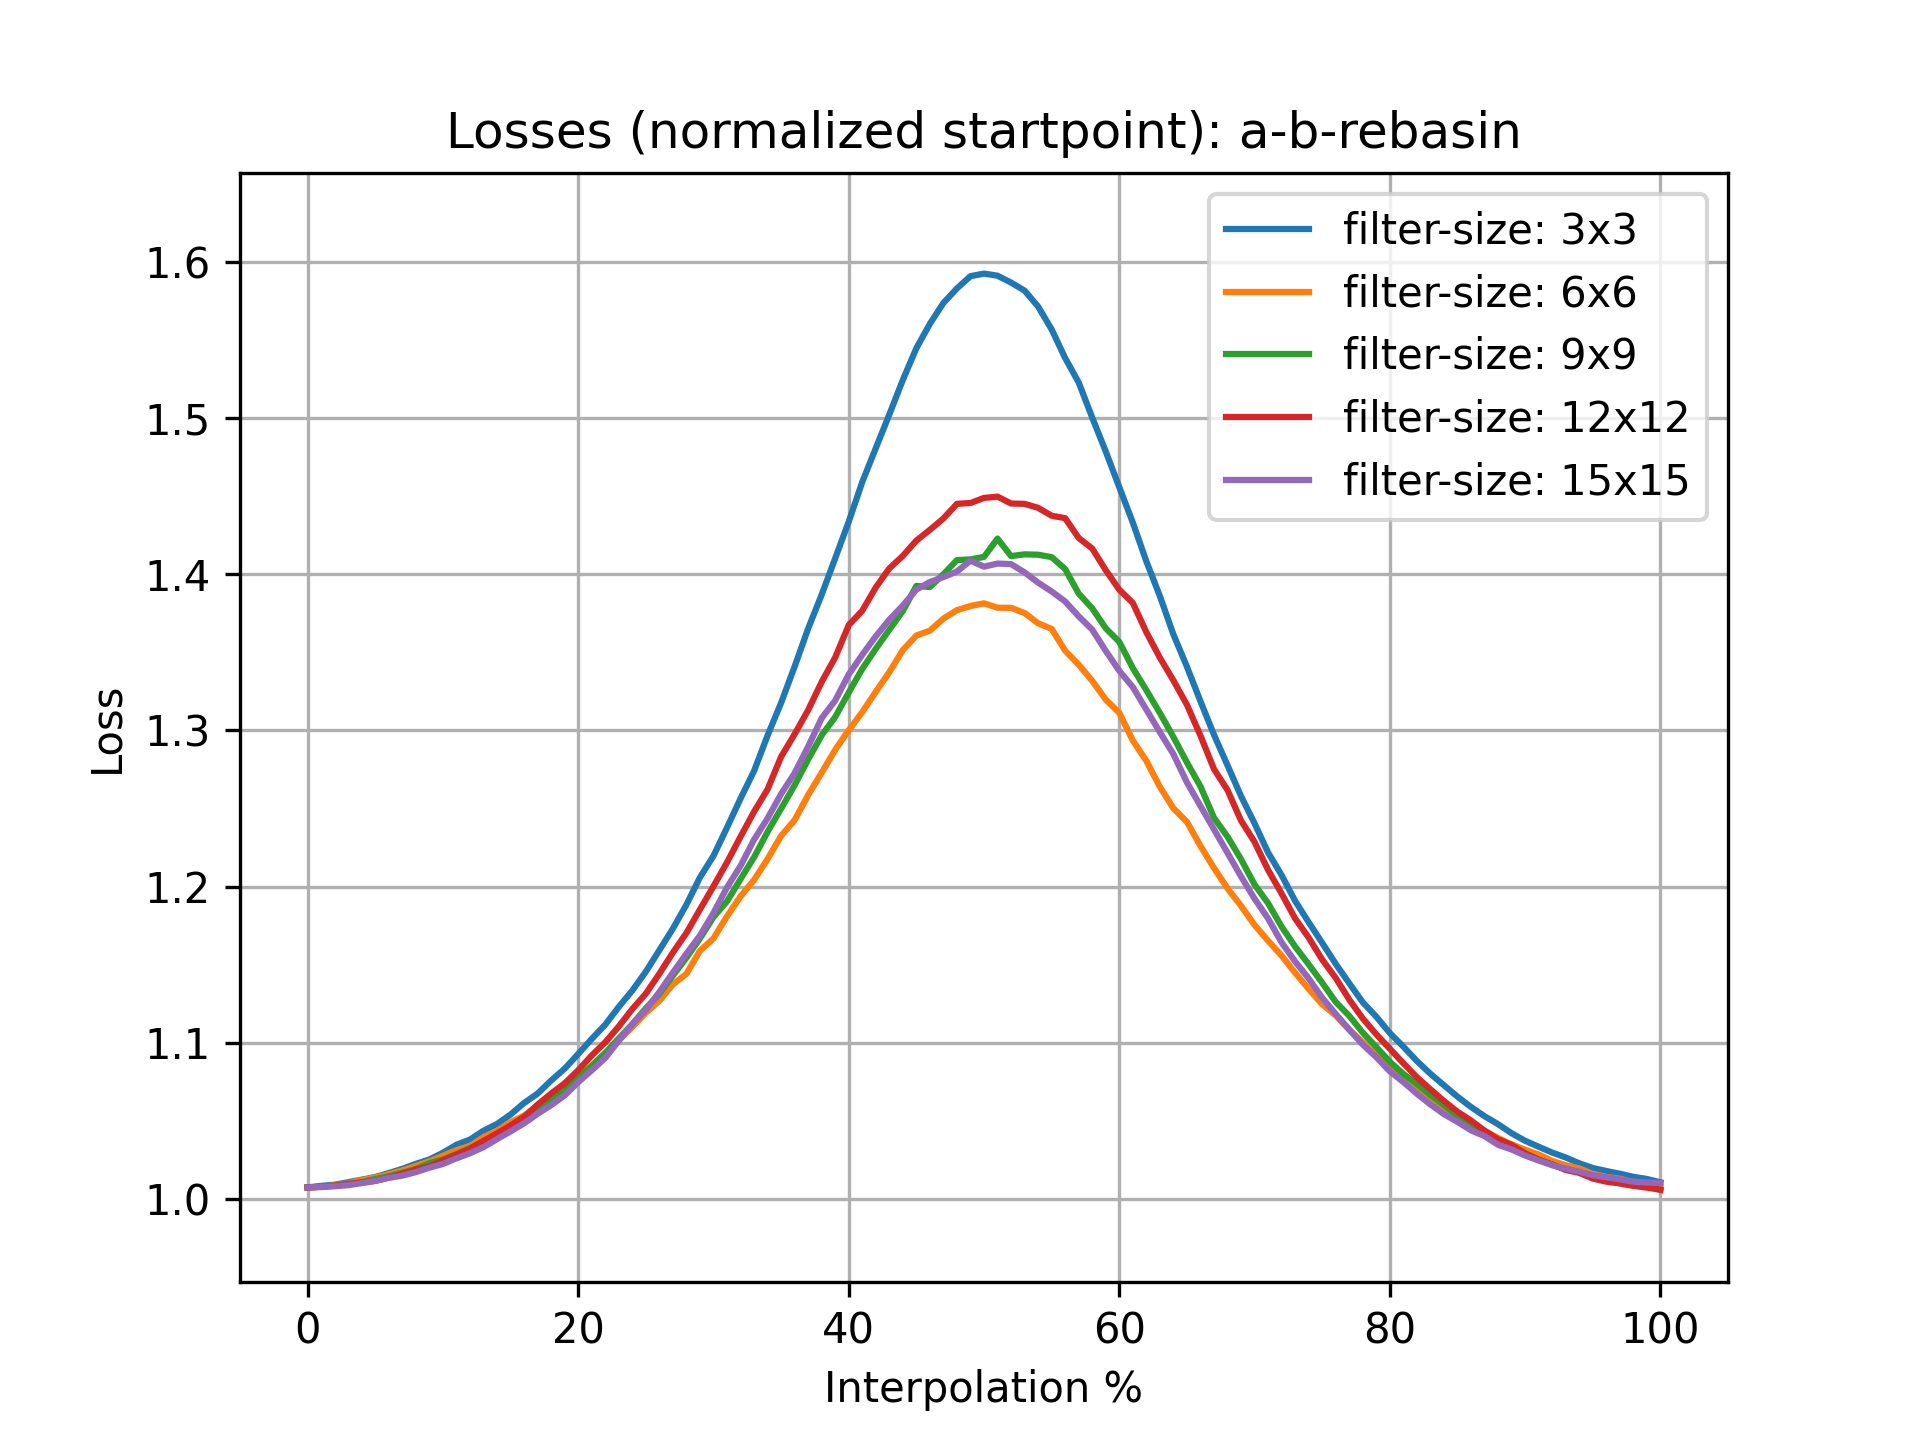
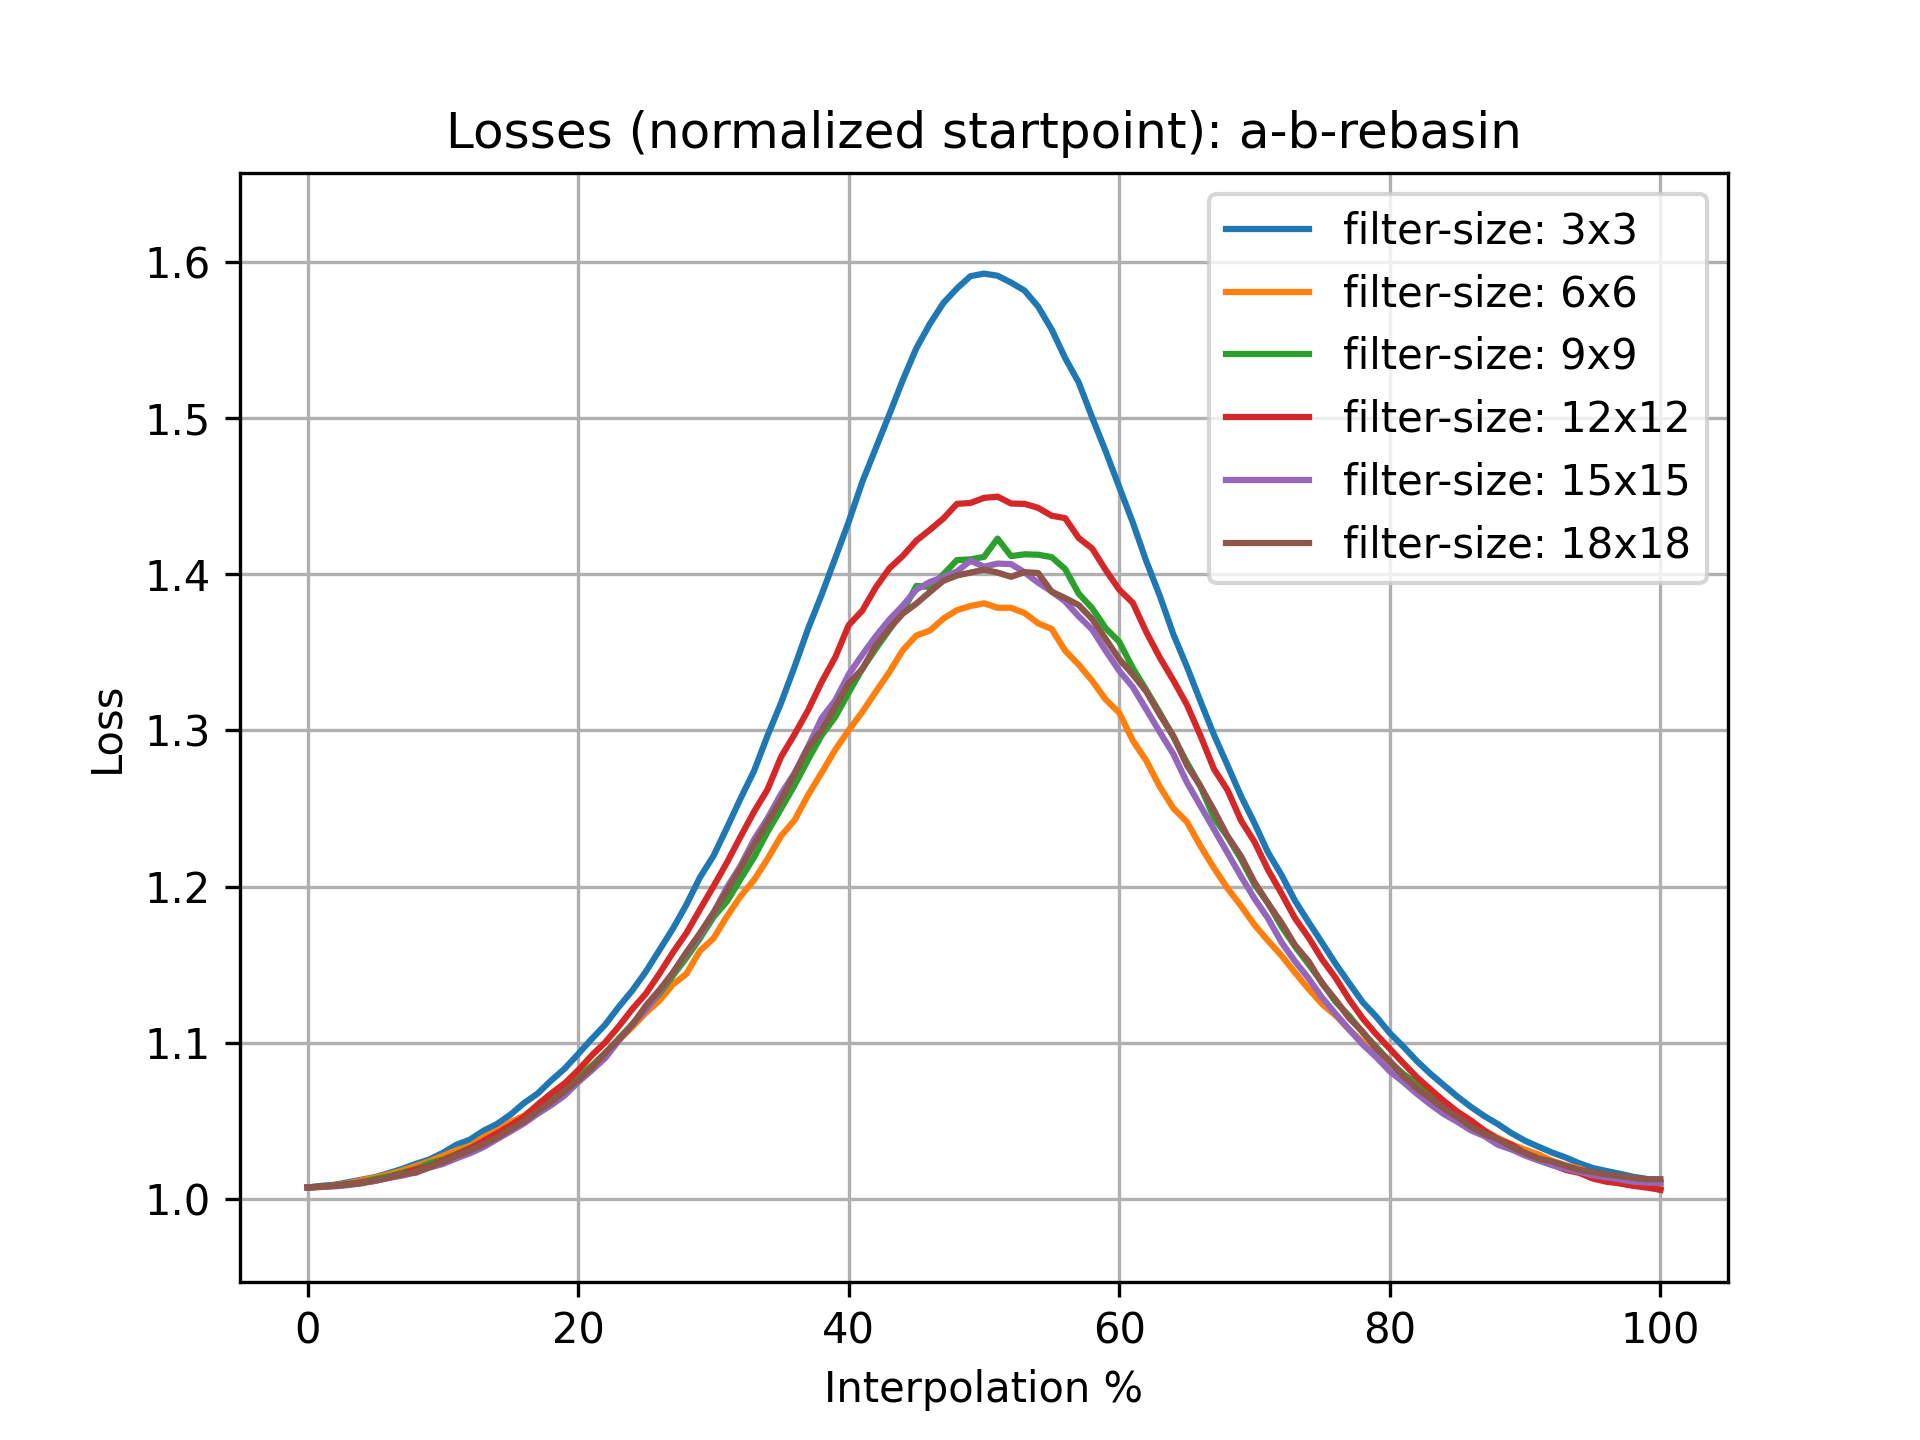
New results!

diff --git a/hlb-CIFAR10/plot_results.py b/hlb-CIFAR10/plot_results.py
@@ -157,8 +157,8 @@ def plot_all_accuracies_from_same_startpoint(cmp_size: str, sizes: list[str]) ->
 
 
 if __name__ == "__main__":
-    sizes = ["3x3", "6x6", "9x9", "12x12", "15x15"]
-    plot_all_losses_from_same_startpoint("3x3", sizes)
+    sizes = ["3x3", "6x6", "9x9", "12x12", "15x15", "18x18"]
+    # plot_all_losses_from_same_startpoint("3x3", sizes)
     # plot_all_accuracies_from_same_startpoint("3x3", sizes)
     # plot_all_losses(sizes)
-    # plot_all_accuracies(sizes)
+    plot_all_accuracies(sizes)

diff --git a/hlb-CIFAR10/RESULTS.md b/hlb-CIFAR10/RESULTS.md
@@ -65,6 +65,16 @@ The original filter size.
     />
 </p>
 
+### Filter-size: 18x18
+
+<p align="center">
+    <img
+        src="18x18-plot.png" 
+        alt="Results of Git re-basin for hlb-CIFAR10 with filter-size 18x18"
+        width="600"
+    />
+</p>
+
 ### Analysis
 
 A few things immediately jump out to me from the plots above:
@@ -129,6 +139,9 @@ I move all startpoints (i.e. `model_a`) to the results of the 3x3-filter.
 </p>
 
 The behavior seems noisy, though slightly better for larger filter-sizes.
+
+It remains to be seen how the method works for models that inherently have very large
+filter-sizes, like vision transformers.
 
 
 ## Model
